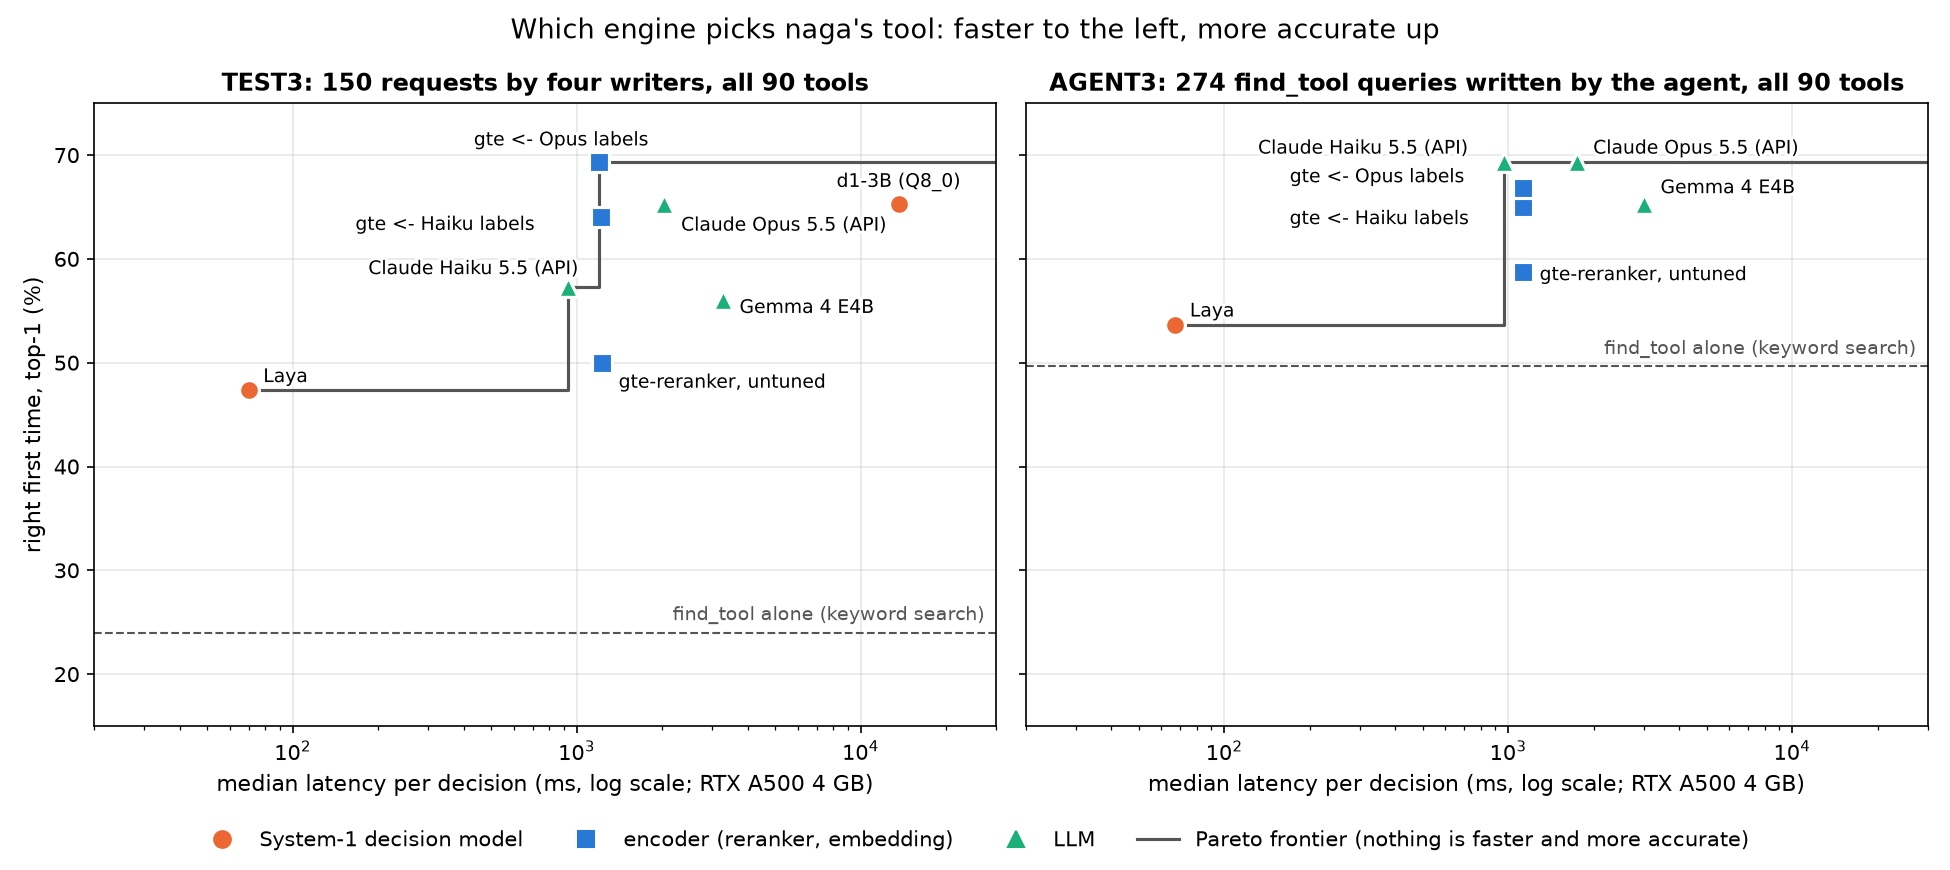
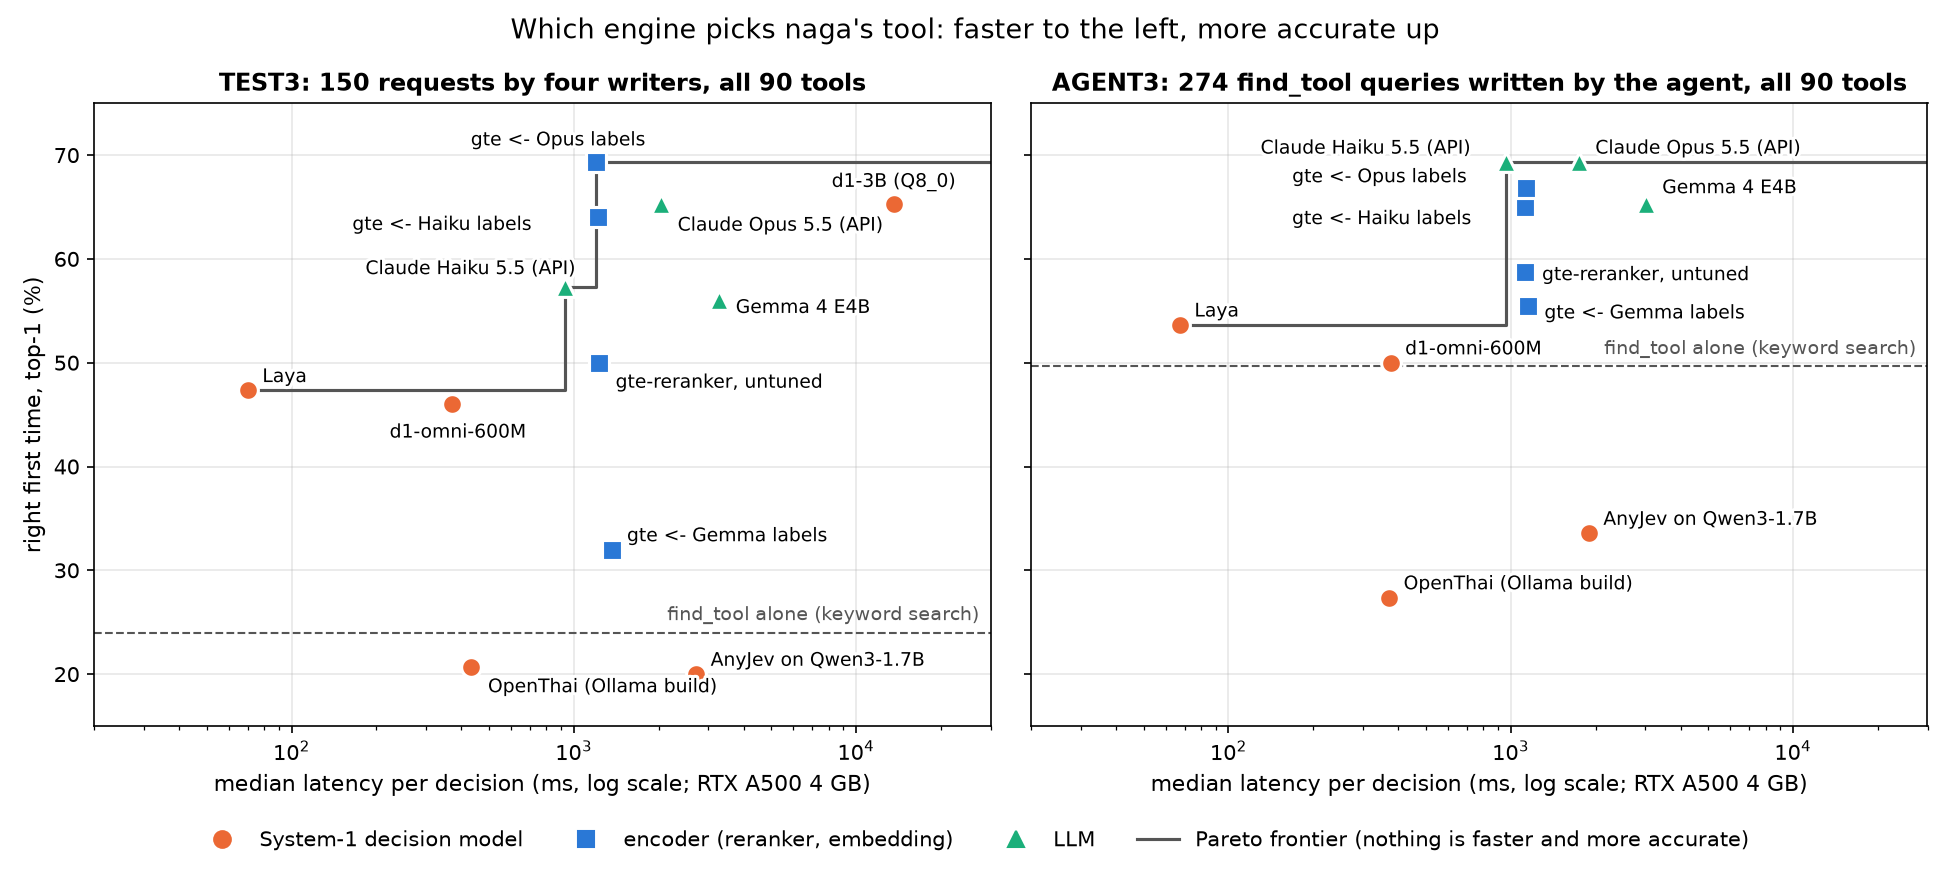
Study chart: back in are the engines that failed or did badly but teach something (AnyJev, OpenThai, d1-omni-600M, gte <- Gemma); 12 engines

diff --git a/bench/naga/plot.py b/bench/naga/plot.py
@@ -36,7 +36,7 @@ ENGINES = {"harrier-bi": ("harrier (bi-encoder)", ENC), "gte-rerank": ("gte-rera
 XMIN, XMAX = 20, 30000
 
 # Label offsets (points, y up) where engines sit close together; shared with the interactive chart.
-OFFSET = {"TEST3": {"gte-opus": (-60, 8), "gte-agreed": (-128, -4), "gte-haiku": (-118, -6), "opus": (8, -13),
+OFFSET = {"TEST3": {"d1-omni": (-30, -16), "gte-opus": (-60, 8), "gte-agreed": (-128, -4), "gte-haiku": (-118, -6), "opus": (8, -13),
                     "haiku": (-96, 6), "d1-3b": (-30, 8), "qwen3-rerank": (8, 4), "gemma4": (8, -6),
                     "tuned-r1": (8, 2), "gte-rerank": (8, -12), "harrier-bi": (8, 6), "openthai-ollama": (8, -12)},
           "AGENT3": {"gte-opus": (-112, 3), "gte-agreed": (-120, -8), "gte-haiku": (-112, -8), "tuned-r1": (8, -16),
@@ -45,7 +45,8 @@ OFFSET = {"TEST3": {"gte-opus": (-60, 8), "gte-agreed": (-128, -4), "gte-haiku":
                      "qwen3-rerank": (8, 4)}}
 YLIM = (15, 75)
 # The charts show only the engines the story needs (Matteo 2026-10-21); the table keeps every engine.
-CHART = ("gte-rerank", "gte-haiku", "gte-opus", "laya", "d1-3b", "gemma4", "haiku", "opus")
+CHART = ("gte-rerank", "gte-gemma4", "gte-haiku", "gte-opus", "laya", "d1-omni", "d1-3b", "anyjev", "openthai-ollama",
+         "gemma4", "haiku", "opus")
 RETRY = ("laya", "gte-opus", "d1-3b", "haiku", "opus")
 RETRY_OFFSET = {"TEST3": {"gte-opus": (-118, -3)}, "AGENT3": {"haiku": (-128, 2), "gte-opus": (6, -9)}}
 

diff --git a/docs/studies/naga-decisions.md b/docs/studies/naga-decisions.md
@@ -4,7 +4,7 @@ An assistant that drives the [naga](https://github.com/TheMattHub/naga) simulati
 
 <div class="pareto-chart" data-src="../assets/engines.json"><noscript><img src="../screenshots/hero.png" alt="Right first time against median latency, per engine, on TEST3 and AGENT3"></noscript></div>
 
-The grey step line is the Pareto frontier: the engines that no other engine beats on both speed and accuracy. Point at an engine, or at a kind in the legend, to see that kind's own frontier. The charts show the eight engines the story turns on; the table below lists every engine we tried.
+The grey step line is the Pareto frontier: the engines that no other engine beats on both speed and accuracy. Point at an engine, or at a kind in the legend, to see that kind's own frontier. The main chart shows the twelve engines the story turns on, failures included, and the retries chart five; the table below lists every engine we tried.
 
 ## How we test
 
